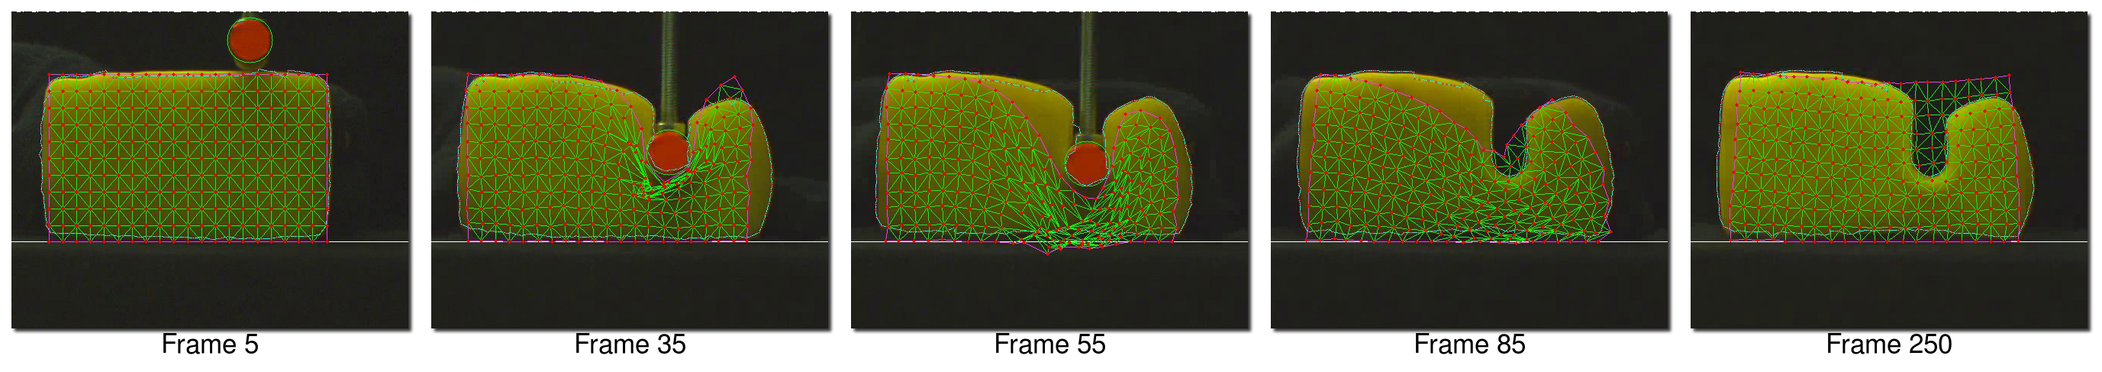
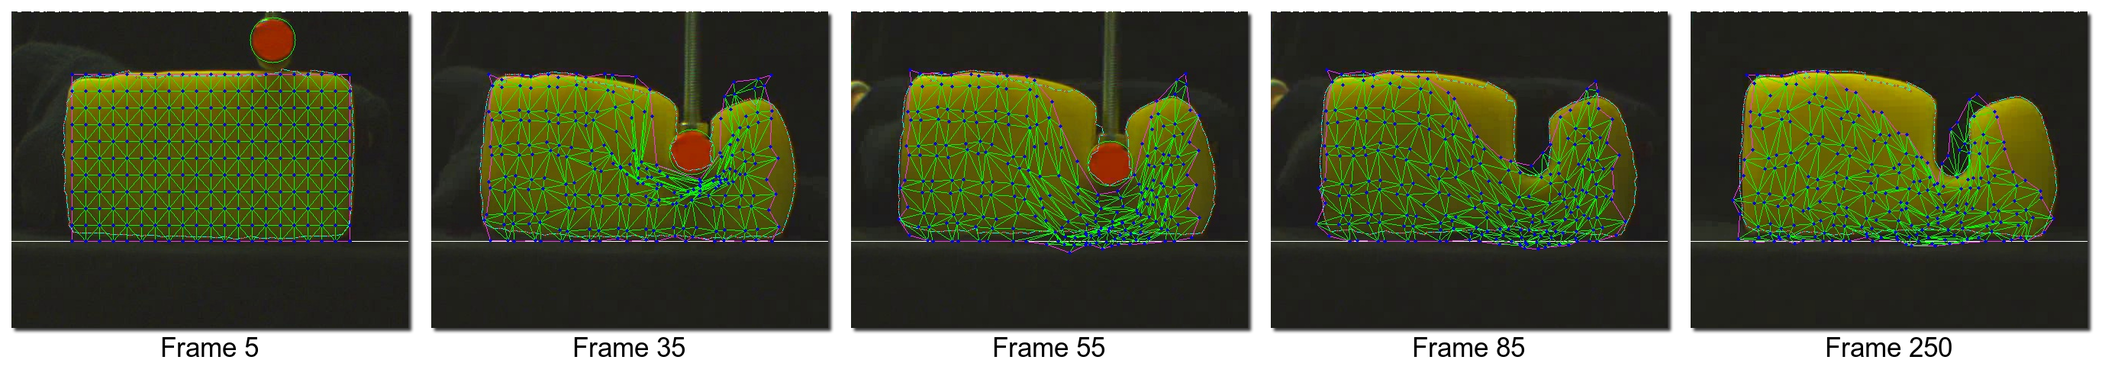
Plasticine images updated.

diff --git a/twostagedo.tex b/twostagedo.tex
@@ -540,7 +540,7 @@ There is a wide range of models of deformation used in engineering, that are cap
 
 \begin{figure}[!t]
 \centering\includegraphics[width=3.5in]{arrio17.png}
-\caption{Force information acquired while working with a block of sponge (elastic) and a piece of plasticine (plastic).}
+\caption{Force information acquired while working with a block of sponge (elastic) and a piece of plasticine (plastic).  Notice the difference in magnitude between the force used with the sponge and the plasticine.}
 \label{fig:forceElasticPlastic}
 \end{figure}
 
@@ -780,24 +780,24 @@ The mass-spring model proposed by Teschner et al.\ in \cite{Teschner2004} was re
 
 For any preservation term, the potential energy $E$ is proportionally dependent on a preservation constraint $C$, where $k$ is the proportionality constant \eref{eq:EConstraint}.  The force $\vec{F}^i$ acting on the $i^{th}$ mass particle is defined as the negative gradient of this potential energy with respect to the position of the particle $\vec{p}_i$ \eref{eq:EForce}.
 \begin{align}
- E(\vec{p}_0,...,\vec{p}_{n-1}) & = \frac{1}{2}kC^2, \label{eq:EConstraint} \\
- \vec{F}^i(\vec{p}_0,...,\vec{p}_{n-1}) & = -\frac{\partial}{\partial \vec{p}_i}E = -kC\frac{\partial C}{\partial \vec{p}_i}. \label{eq:EForce}
+ E(\vec{p}_1,...,\vec{p}_{n}) & = \frac{1}{2}kC(\vec{p}_1,...,\vec{p}_{n})^2, \label{eq:EConstraint} \\
+ \vec{F}^i(\vec{p}_1,...,\vec{p}_{n}) & = -\frac{\partial}{\partial \vec{p}_i}E = -kC\frac{\partial C}{\partial \vec{p}_i}. \label{eq:EForce}
 \end{align}
 Which with damping becomes:
 \begin{align}
  \label{eq:Fdamping}
- \vec{F}^i&(\vec{p}_0,...,\vec{p}_{n-1},\vec{v}_0,...,\vec{v}_{n-1}) = \nonumber \\
-    &\left( -kC-k_d\sum_{0\le j < n} \dfrac{\partial C}{\partial \vec{p}_j}\vec{v}_j \right)
+ \vec{F}^i&(\vec{p}_1,...,\vec{p}_{n},\vec{v}_1,...,\vec{v}_{n}) = \nonumber \\
+    &\left( -kC-k_d\sum_{1 \le j \le n} \dfrac{\partial C}{\partial \vec{p}_j}\vec{v}_j \right)
  \dfrac{\partial C}{\partial \vec{p}_i},
 \end{align}
-where $\vec{v}_j$ is the velocity of the $j^{th}$ particle connected to $i$.
+where $\vec{v}_j$ is the velocity of the $j^{th}$ particle connected to $i$, in a system with $n$ particles.
 
 \subsubsection{Preservation of Length}
 The constraint for the potential energy is given by:
 \begin{equation}
- C = \dfrac{|\vec{p}_j-\vec{p}_i|-D_0}{D_0},
+ C = \dfrac{|\vec{p}_j-\vec{p}_i|-D_0}{D_0}, \label{eq:clength}
 \end{equation}
-where $D_0$ is the rest length of the spring.  This force pulls the masses in the direction of the spring that joins them [\fref{fig:forces}(a)].  Teschner normalised the value dividing by $D_0$ to make the elasticity constants scale independent.  Morris \cite{Morris2008} omitted that in his final equations for the force.  Here we use the normalised force $\vec{F}^i_D$ \eref{eq:FDlength}, which has the effect that, if we obtain a good set of parameters for a certain mesh of high resolution, the same set can be used for a mesh of lesser resolution that preserves the same type of symmetries.
+where $\vec{p}_i$ and $\vec{p}_j$ are connected by a spring and $D_0$ is the rest length of that spring.  The force derived from this constraint pulls the masses in the direction of the spring that joins them [\fref{fig:forces}(a)].  Teschner normalised the value dividing by $D_0$ to make the elasticity constants scale independent.  Morris \cite{Morris2008} omitted that in his final equations for the force.  Here we use the normalised force $\vec{F}^i_D$ \eref{eq:FDlength}, which has the effect that, if we obtain a good set of parameters for a certain mesh of high resolution, the same set can be used for a mesh of lesser resolution that preserves the same type of symmetries.  Therefore, substituting \eref{eq:clength} in \eref{eq:Fdamping} we get:
 \begin{align}
  \vec{F}^i_D(p_i,p_j,v_i,v_j) &= \dfrac{k_L}{D_0^2} \left( |\vec{p}_j-\vec{p}_i|-D_0 \right) \dfrac{\vec{p}_j-\vec{p}_i}{|\vec{p}_j-\vec{p}_i|}  + \nonumber \\
  & \dfrac{k_d}{D_0^2}\left( \dfrac{\vec{p}_j-\vec{p}_i}{|\vec{p}_j-\vec{p}_i|} \cdot (\vec{v}_j-\vec{v}_i) \right) \dfrac{\vec{p}_j-\vec{p}_i}{|\vec{p}_j-\vec{p}_i|} \label{eq:FDlength}
@@ -805,7 +805,7 @@ where $D_0$ is the rest length of the spring.  This force pulls the masses in th
 where $k_L$ is the linear spring constant and $k_d$ the damping constant.
 
 \subsubsection{Preservation of Area}
-Since Teschner and Morris didn't find it helpful to add damping to the preservation of areas, it is avoided here.  Therefore the force $\vec{F}^i_A$ is derived as follows:
+This constraint is applied per triangle in the mesh.  Since Teschner and Morris didn't find it helpful to add damping to the preservation of areas, it is avoided here.  Therefore the force $\vec{F}^i_A$ is derived as follows:
 \begin{align}
  C &= \frac{\frac{1}{2}|(\vec{p}_j-\vec{p}_i)\times(\vec{p}_k-\vec{p}_i)|-A_0}{A_0} \\
  Area &= \frac{1}{2}|(\vec{p}_j-\vec{p}_i)\times(\vec{p}_k-\vec{p}_i)|, \\
@@ -1138,7 +1138,7 @@ One hundred photographs and force readings where taken every $0.17\pm0.007 s$ in
 \includegraphics[width=178mm]{arrio12}
 \includegraphics[width=178mm]{arrio13}
 \includegraphics[width=178mm]{arrio14}
-\caption{Simulation of the plasticine obtained with parameters $k_L=4800.43, k_d=0.803787, k_A=7475.74 k_{\phi}=72.7379, max\_Force=571.392, yield=0.848239, creep=0.151826, max\_\alpha=0.126444$.  Using the customised integration scheme, the elastic-plastic model with all preservation terms, with the aid of geometric recovery routines with the finger.  The block of material was represented by a mesh of $20 \times 10$ elements. Top: Training. Middle: Test 1. Bottom: Test 2}\label{fig:simulation_plasticine}
+\caption{Simulation of the plasticine obtained with parameters $k_L=642.328, k_d=0.562201, k_A=29.2776 k_{\phi}=72.6202, max\_Force=765.912, yield=0.0790105, creep=0.664469, max\_\alpha=0.48842$.  Using the customised integration scheme, the elastic-plastic model with all preservation terms, with the aid of geometric recovery routines and collision detection with the finger.  The block of material was represented by a mesh of $20 \times 10$ elements. Top: Training. Middle: Test 1. Bottom: Test 2}\label{fig:simulation_plasticine}
 \end{figure*}
 
 \begin{figure*}[!t]
